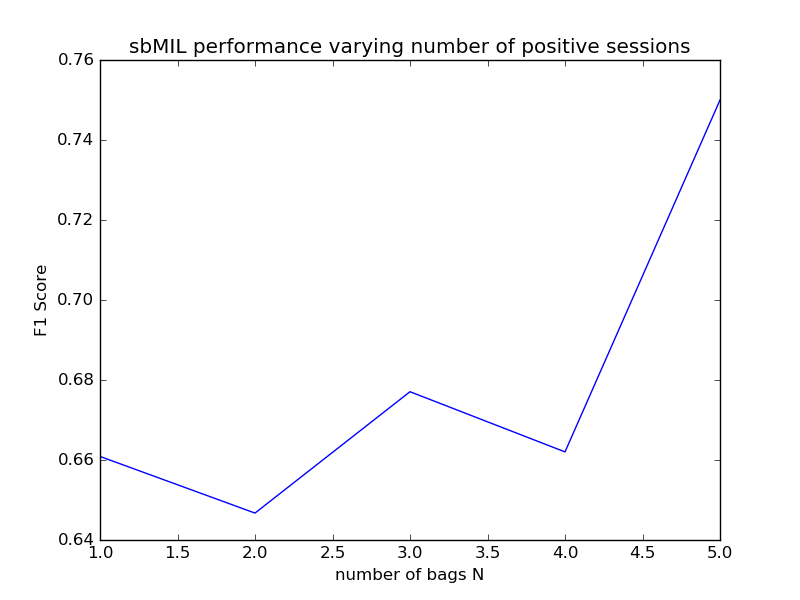
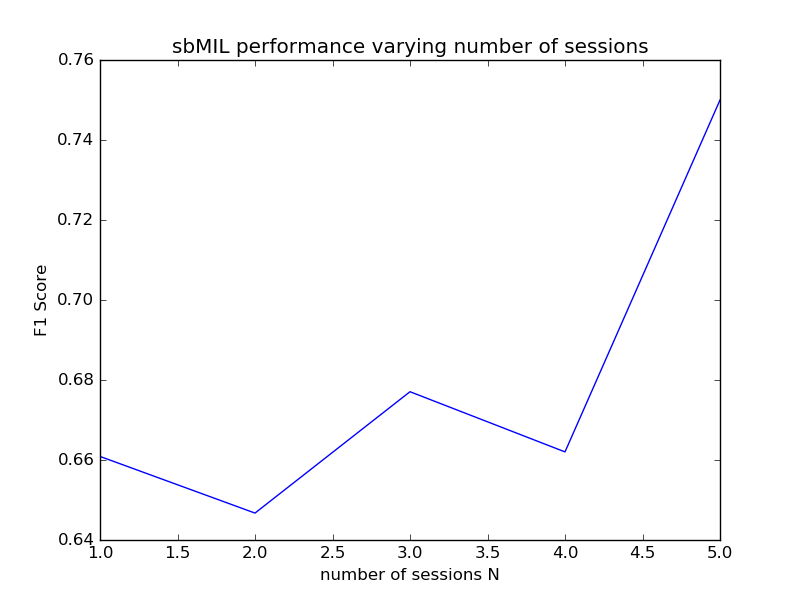
Updated paper

Changed region(s): [[0.1562, 0.06, 0.875, 0.09], [0.4062, 0.93, 0.625, 0.99]]

diff --git a/paper/mil.tex b/paper/mil.tex
@@ -251,6 +251,12 @@ Lastly, we examine the effect of using a small number of instances and bags from
 
 \subsection{RisQ Dataset}
 
+\begin{figure}
+\centering
+  \includegraphics[width=0.9\columnwidth]{figures/sessions}
+  \caption{Average LOPO f1 score of sbMIL on RisQ dataset varying the number of labeled sessions}~\label{fig:figure4}
+\end{figure}
+
 ...
 
 % Use a numbered list of references at the end of the article, ordered
